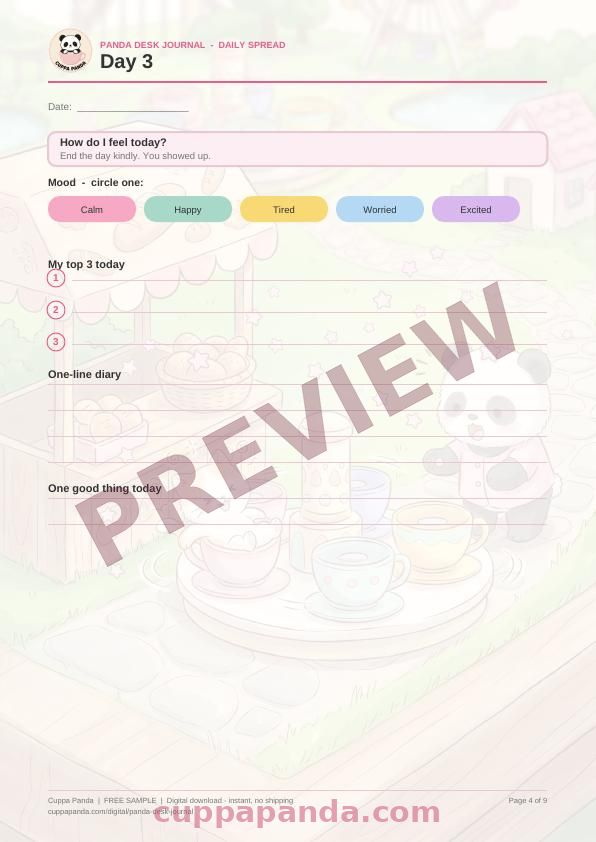
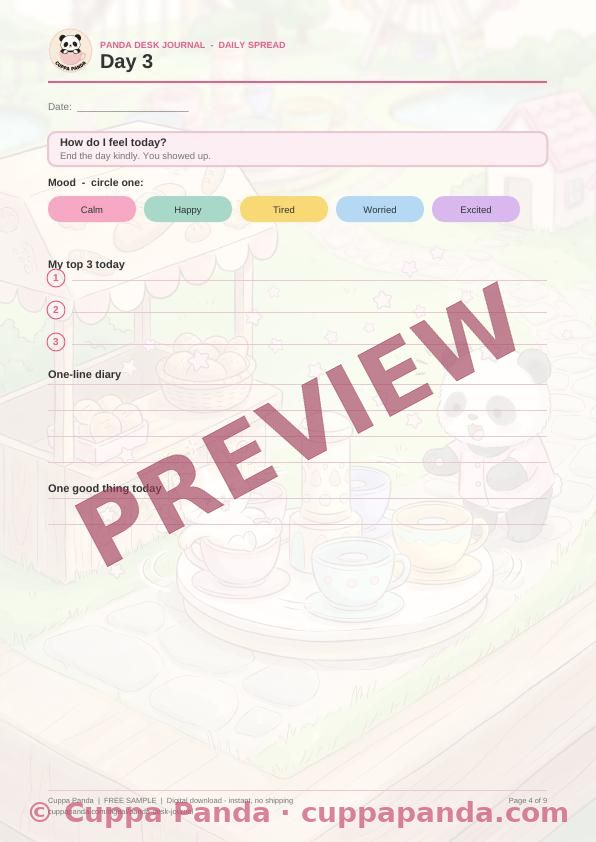
Detail grid: stronger PREVIEW watermark + © Cuppa Panda acknowledgment on thumbs and in section text (Joh 2026-11-24)

Changed region(s): [[0.1208, 0.3397, 0.8758, 0.6793], [0.0302, 0.9572, 0.9664, 0.9881]]

diff --git a/digital/panda-desk-journal.html b/digital/panda-desk-journal.html
@@ -201,7 +201,7 @@ footer a{color:var(--pink-deep);font-weight:700;text-decoration:none}
 <a class="backlink" href="/#digital">← Back to all digital downloads</a>
 </div>
 </div>
-<section class="dgrid-wrap"><h2>Take a look inside</h2><p class="sub">Detail pages from the free sample — tap any page to see it full size.</p><div class="dgrid"><a href="/images/digital/details/journal-page-1.jpg" target="_blank" rel="noopener"><img src="/images/digital/details/journal-page-1.jpg" alt="Panda Desk Journal — preview page 1" loading="lazy"></a><a href="/images/digital/details/journal-page-2.jpg" target="_blank" rel="noopener"><img src="/images/digital/details/journal-page-2.jpg" alt="Panda Desk Journal — preview page 2" loading="lazy"></a><a href="/images/digital/details/journal-page-3.jpg" target="_blank" rel="noopener"><img src="/images/digital/details/journal-page-3.jpg" alt="Panda Desk Journal — preview page 3" loading="lazy"></a><a href="/images/digital/details/journal-page-4.jpg" target="_blank" rel="noopener"><img src="/images/digital/details/journal-page-4.jpg" alt="Panda Desk Journal — preview page 4" loading="lazy"></a><a href="/images/digital/details/journal-page-5.jpg" target="_blank" rel="noopener"><img src="/images/digital/details/journal-page-5.jpg" alt="Panda Desk Journal — preview page 5" loading="lazy"></a></div></section>
+<section class="dgrid-wrap"><h2>Take a look inside</h2><p class="sub">Preview pages from the free sample — watermarked © Cuppa Panda, tap any page to see it full size.</p><div class="dgrid"><a href="/images/digital/details/journal-page-1.jpg" target="_blank" rel="noopener"><img src="/images/digital/details/journal-page-1.jpg" alt="Panda Desk Journal — preview page 1" loading="lazy"></a><a href="/images/digital/details/journal-page-2.jpg" target="_blank" rel="noopener"><img src="/images/digital/details/journal-page-2.jpg" alt="Panda Desk Journal — preview page 2" loading="lazy"></a><a href="/images/digital/details/journal-page-3.jpg" target="_blank" rel="noopener"><img src="/images/digital/details/journal-page-3.jpg" alt="Panda Desk Journal — preview page 3" loading="lazy"></a><a href="/images/digital/details/journal-page-4.jpg" target="_blank" rel="noopener"><img src="/images/digital/details/journal-page-4.jpg" alt="Panda Desk Journal — preview page 4" loading="lazy"></a><a href="/images/digital/details/journal-page-5.jpg" target="_blank" rel="noopener"><img src="/images/digital/details/journal-page-5.jpg" alt="Panda Desk Journal — preview page 5" loading="lazy"></a></div></section>
 </div>
 <footer><b>🐼 CuppaPanda.com</b><br>Delivery 10–15 days worldwide · UK &amp; Ireland free shipping · World shipping +$10<br>14-day returns on unused items · Blind boxes are final sale once opened<br>Contact: <a href="mailto:hello@cuppapanda.com">hello@cuppapanda.com</a> · <a href="https://www.instagram.com/cuppapanda.shop" target="_blank" rel="noopener">Instagram @cuppapanda</a> · <a href="https://www.tiktok.com/@cuppapanda" target="_blank" rel="noopener">TikTok @cuppapanda</a> · <a href="/affiliates">Affiliates</a><br>© 2026 Cuppa Panda. Run with love (and parental supervision).</footer>
 
